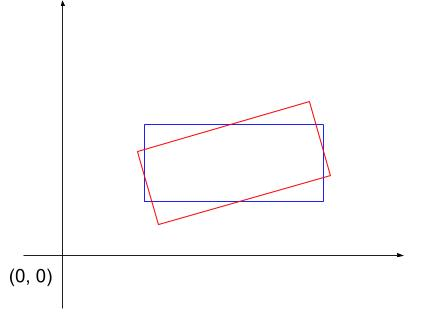
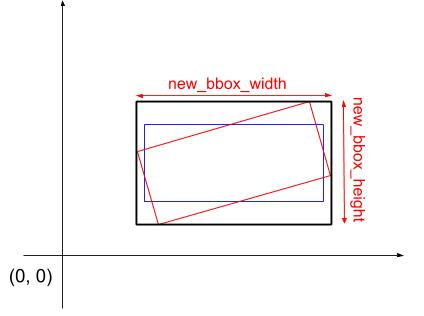
Update bounding box info.

Changed region(s): [[0.3066, 0.2278, 0.8585, 0.7405]]

diff --git a/_posts/2020-3-5-rotate_yolo_bbox.md b/_posts/2020-3-5-rotate_yolo_bbox.md
@@ -58,13 +58,13 @@ The point $$(x,y)$$ will be rotated counterclockwise by angle $$\theta$$.
 
 ![_config.yml]({{ site.baseurl }}/images/rotate_yolo_bbox/pointRotation.jpg)
 
-To obtain 
+To obtain the position of the new point, we do a simple matrix multiplication.
 
 $$
 \begin{align}
 \begin{pmatrix}
 \text{cos } \theta & -\text{sin } \theta \\
-\text{sin } \theta & -\text{cos } \theta
+\text{sin } \theta & \text{cos } \theta
 \end{pmatrix}*
 \begin{pmatrix}
 x \\
@@ -78,11 +78,16 @@ y'
 $$
 
 Once we have rotated all four corners of the bounding box, we need to find the 2 
-farthest rotated points in the x-axis, this will correspond to the new width of 
-the new bounding box, and the y-axis, this will correspond to the new height of 
+farthest rotated points in the *x*-axis, this will correspond to the new width of 
+the new bounding box, and the *y*-axis, this will correspond to the new height of 
 the bounding box.
 
 ![_config.yml]({{ site.baseurl }}/images/rotate_yolo_bbox/bbox_rotation.jpg)
+*The old bounding box is in blue, the new rotated bounding box is in red. The new
+bounding box whose dimensions we need for YOLO is shown in black.*
+
+The reason we need the new height and width is because YOLO only takes in bounding 
+boxes parallel to the x-y axis.
 
 ### Python Implementation
 
